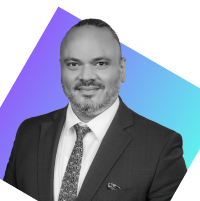
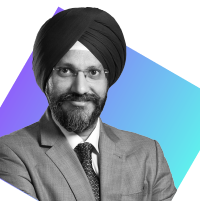
Speaker Changes

diff --git a/src/components/newhome/WatchOnDemand.tsx b/src/components/newhome/WatchOnDemand.tsx
@@ -13,6 +13,11 @@ const WatchOnDemand = () => {
   const scrollNext = useCallback(() => emblaApi && emblaApi.scrollNext(), [emblaApi]);
 
   const videos = [
+    { image: "/edition/1-delhi26.jpg", link: "https://youtu.be/1H6zUN-oz_U?si=hqKcKvXgSlEcFr1j" },
+    { image: "/edition/2-delhi26.jpg", link: "https://youtu.be/ISM8I81gv_4?si=PZ7TXdt8VyGEumtZ" },
+    { image: "/edition/3-delhi26.jpg", link: "https://youtu.be/5VI-Adm2pog?si=NAMDSveIOquic2hp" },
+    { image: "/edition/4-delhi26.jpg", link: "https://youtu.be/A0SmaoIxPr0?si=Unz4rZKChuJw0_z6" },
+    { image: "/edition/5-delhi26.jpg", link: "https://youtu.be/Z-j3Z_NgjgA?si=1R4aoMd6eR_BYslZ" },
     { image: "/edition/1-bangaluru25.jpg", link: "https://www.youtube.com/watch?v=aQ4pH33lW8k" },
     { image: "/edition/3-bangaluru25.jpg", link: "https://www.youtube.com/watch?v=DNGrBTNE0FY" },
     { image: "/edition/4-bangaluru25.jpg", link: "https://www.youtube.com/watch?v=peAQ8Y-NBcc" },

diff --git a/src/components/newhome/DelhiSpeakers.tsx b/src/components/newhome/DelhiSpeakers.tsx
@@ -165,7 +165,7 @@ const FeaturedSpeakers = () => {
     },
     {
       name: "Manpreet Singh Ahuja",
-      role: "Partner – Sustainability Strategy & Transformation, PwC India",
+      role: "Partner, Chief Client and Alliance & TMT Sector Leader, PwC India",
       linkedin: "https://www.linkedin.com/in/manpreet-singh-6710788/",
       image: "/speakers/delhi26/Manpreet Ahuja.png",
     },
